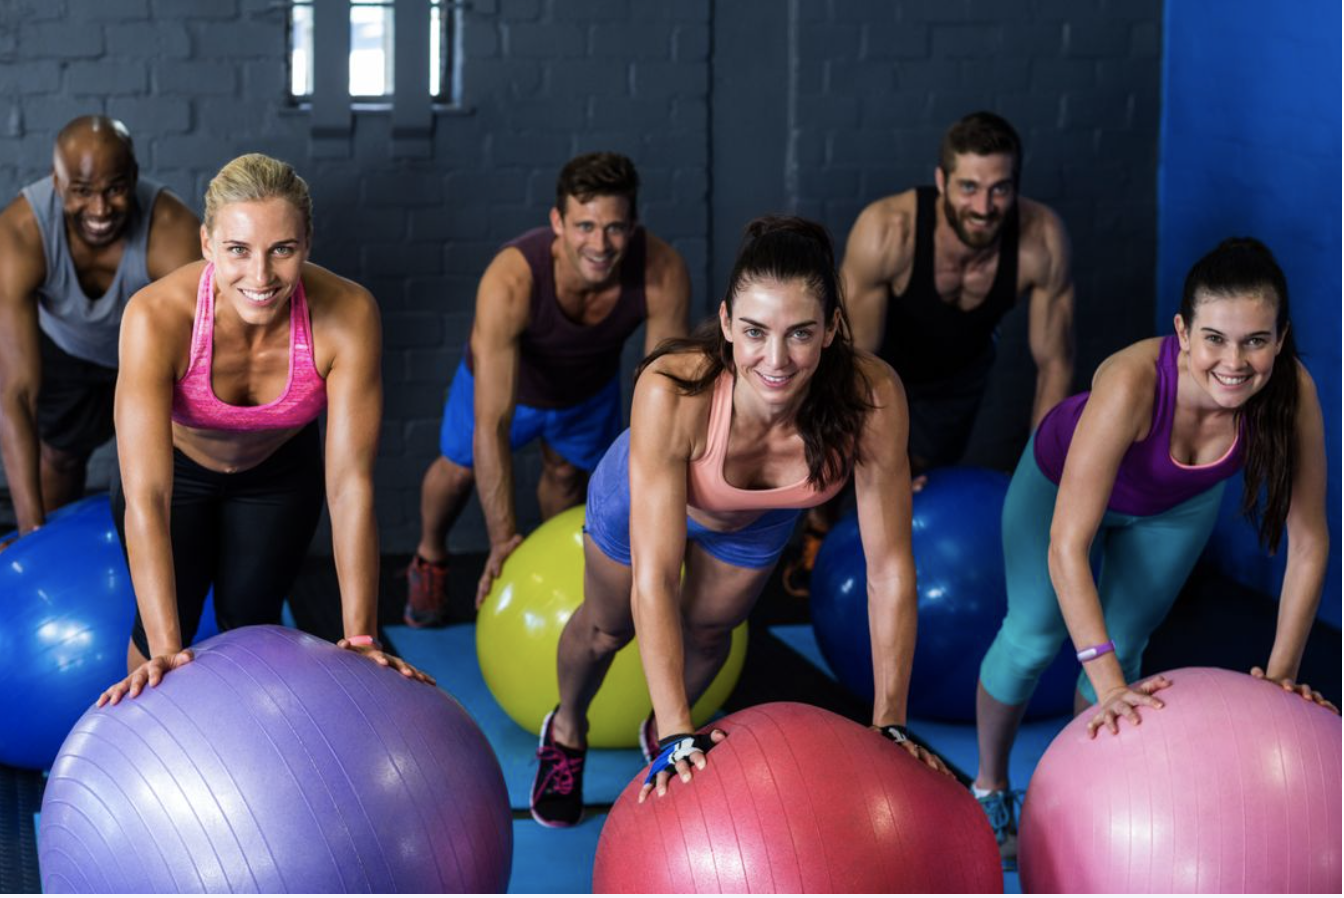
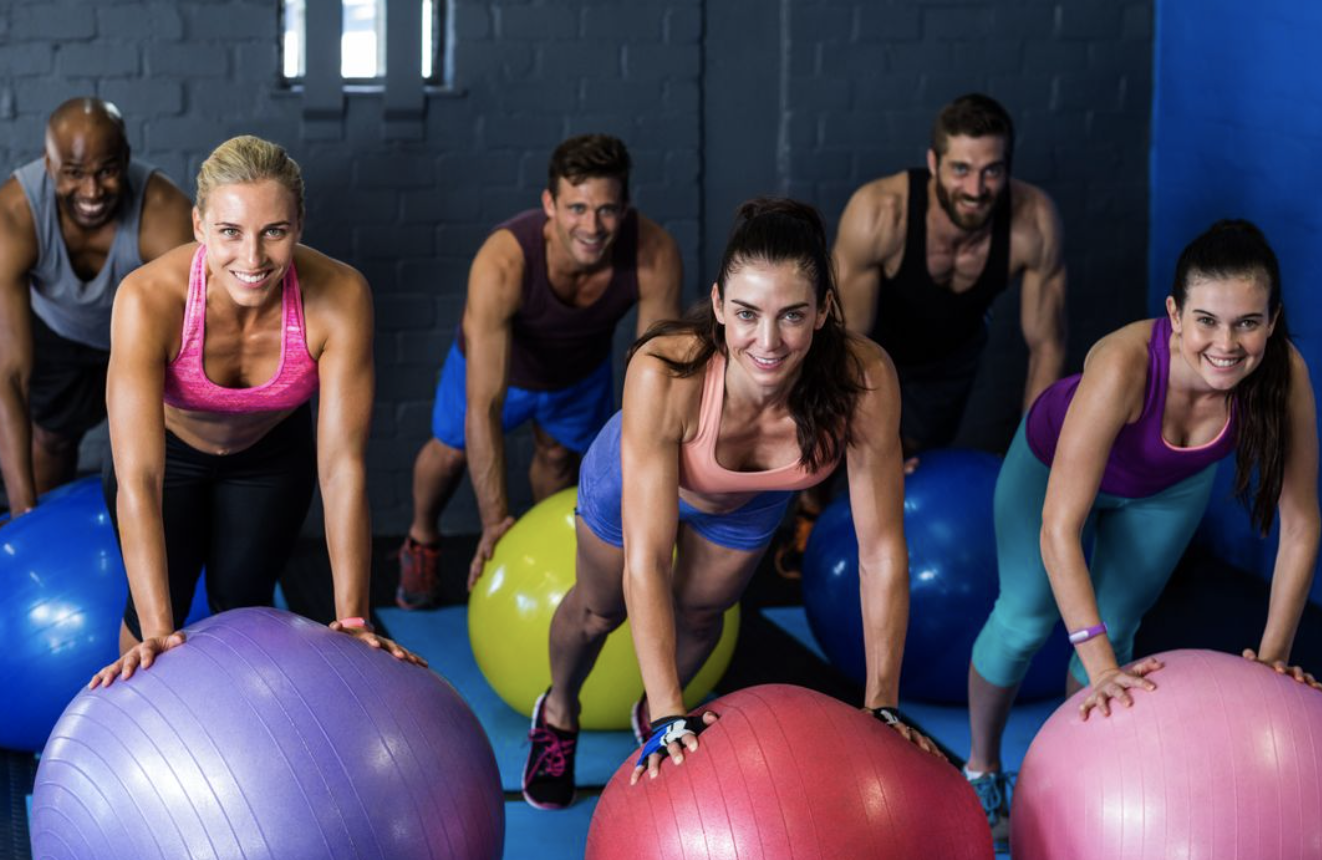
uodate

diff --git a/assets/css/style.css b/assets/css/style.css
@@ -66,7 +66,7 @@ h1 {
 
 #icon-bar a {
     text-decoration: none;
-    color: white;
+    color: #fafafa;
 }
 
 #icon-bar a:hover {
@@ -87,7 +87,7 @@ h1 {
 }
 
 #hero-image {
-    height: 800px;
+    height: 600px;
     width: 100%;
     background: url("../img/fungym-hero.png") no-repeat center center;
 
@@ -112,7 +112,7 @@ h1 {
 
 #cover-text,
 #cover-text h2 {
-    color: #ffffff;
+    color: #fafafa;
 }
 
 #cover-text {
@@ -127,11 +127,35 @@ h1 {
     padding-top: 40px;
     padding-left: 10px;
 
-    background-color: rgba(241, 109, 107, .7);
+    background-color: #73303042;
 
     bottom: 30px;
     right: 150px;
 
     position: absolute;
 
+}
+
+/* Creates the button  on text image fot join now */
+
+.btn {
+    position: absolute;
+    top: 50%;
+    left: 50%;
+    transform: translate(-50%, -50%);
+    -ms-transform: translate(-50%, -50%);
+    background-color: #333333b5;
+    color: #ffaeae;
+    font-size: 16px;
+    padding: 16px 30px;
+    border: none;
+    cursor: pointer;
+    border-radius: 5px;
+    text-align: center;
+}
+
+.btn:hover {
+    background-color: #e10a0a;
+
+    color: #333333b5;
 }

diff --git a/index.html b/index.html
@@ -94,9 +94,9 @@
 
     <section id="hero-outer">
         <div id="hero-image">
-            <div id="cover-text">
-                <h2>Fun Gym</h2>
-                <h3>Enjoy gymming now!</h3>
+            <div id="cover-text" class="btn">
+                <h2>Get in shape while smiling.</h2>
+                <h3><button class="btn">Fun gymming now!</button></h3>
             </div>
         </div>
     </section>
